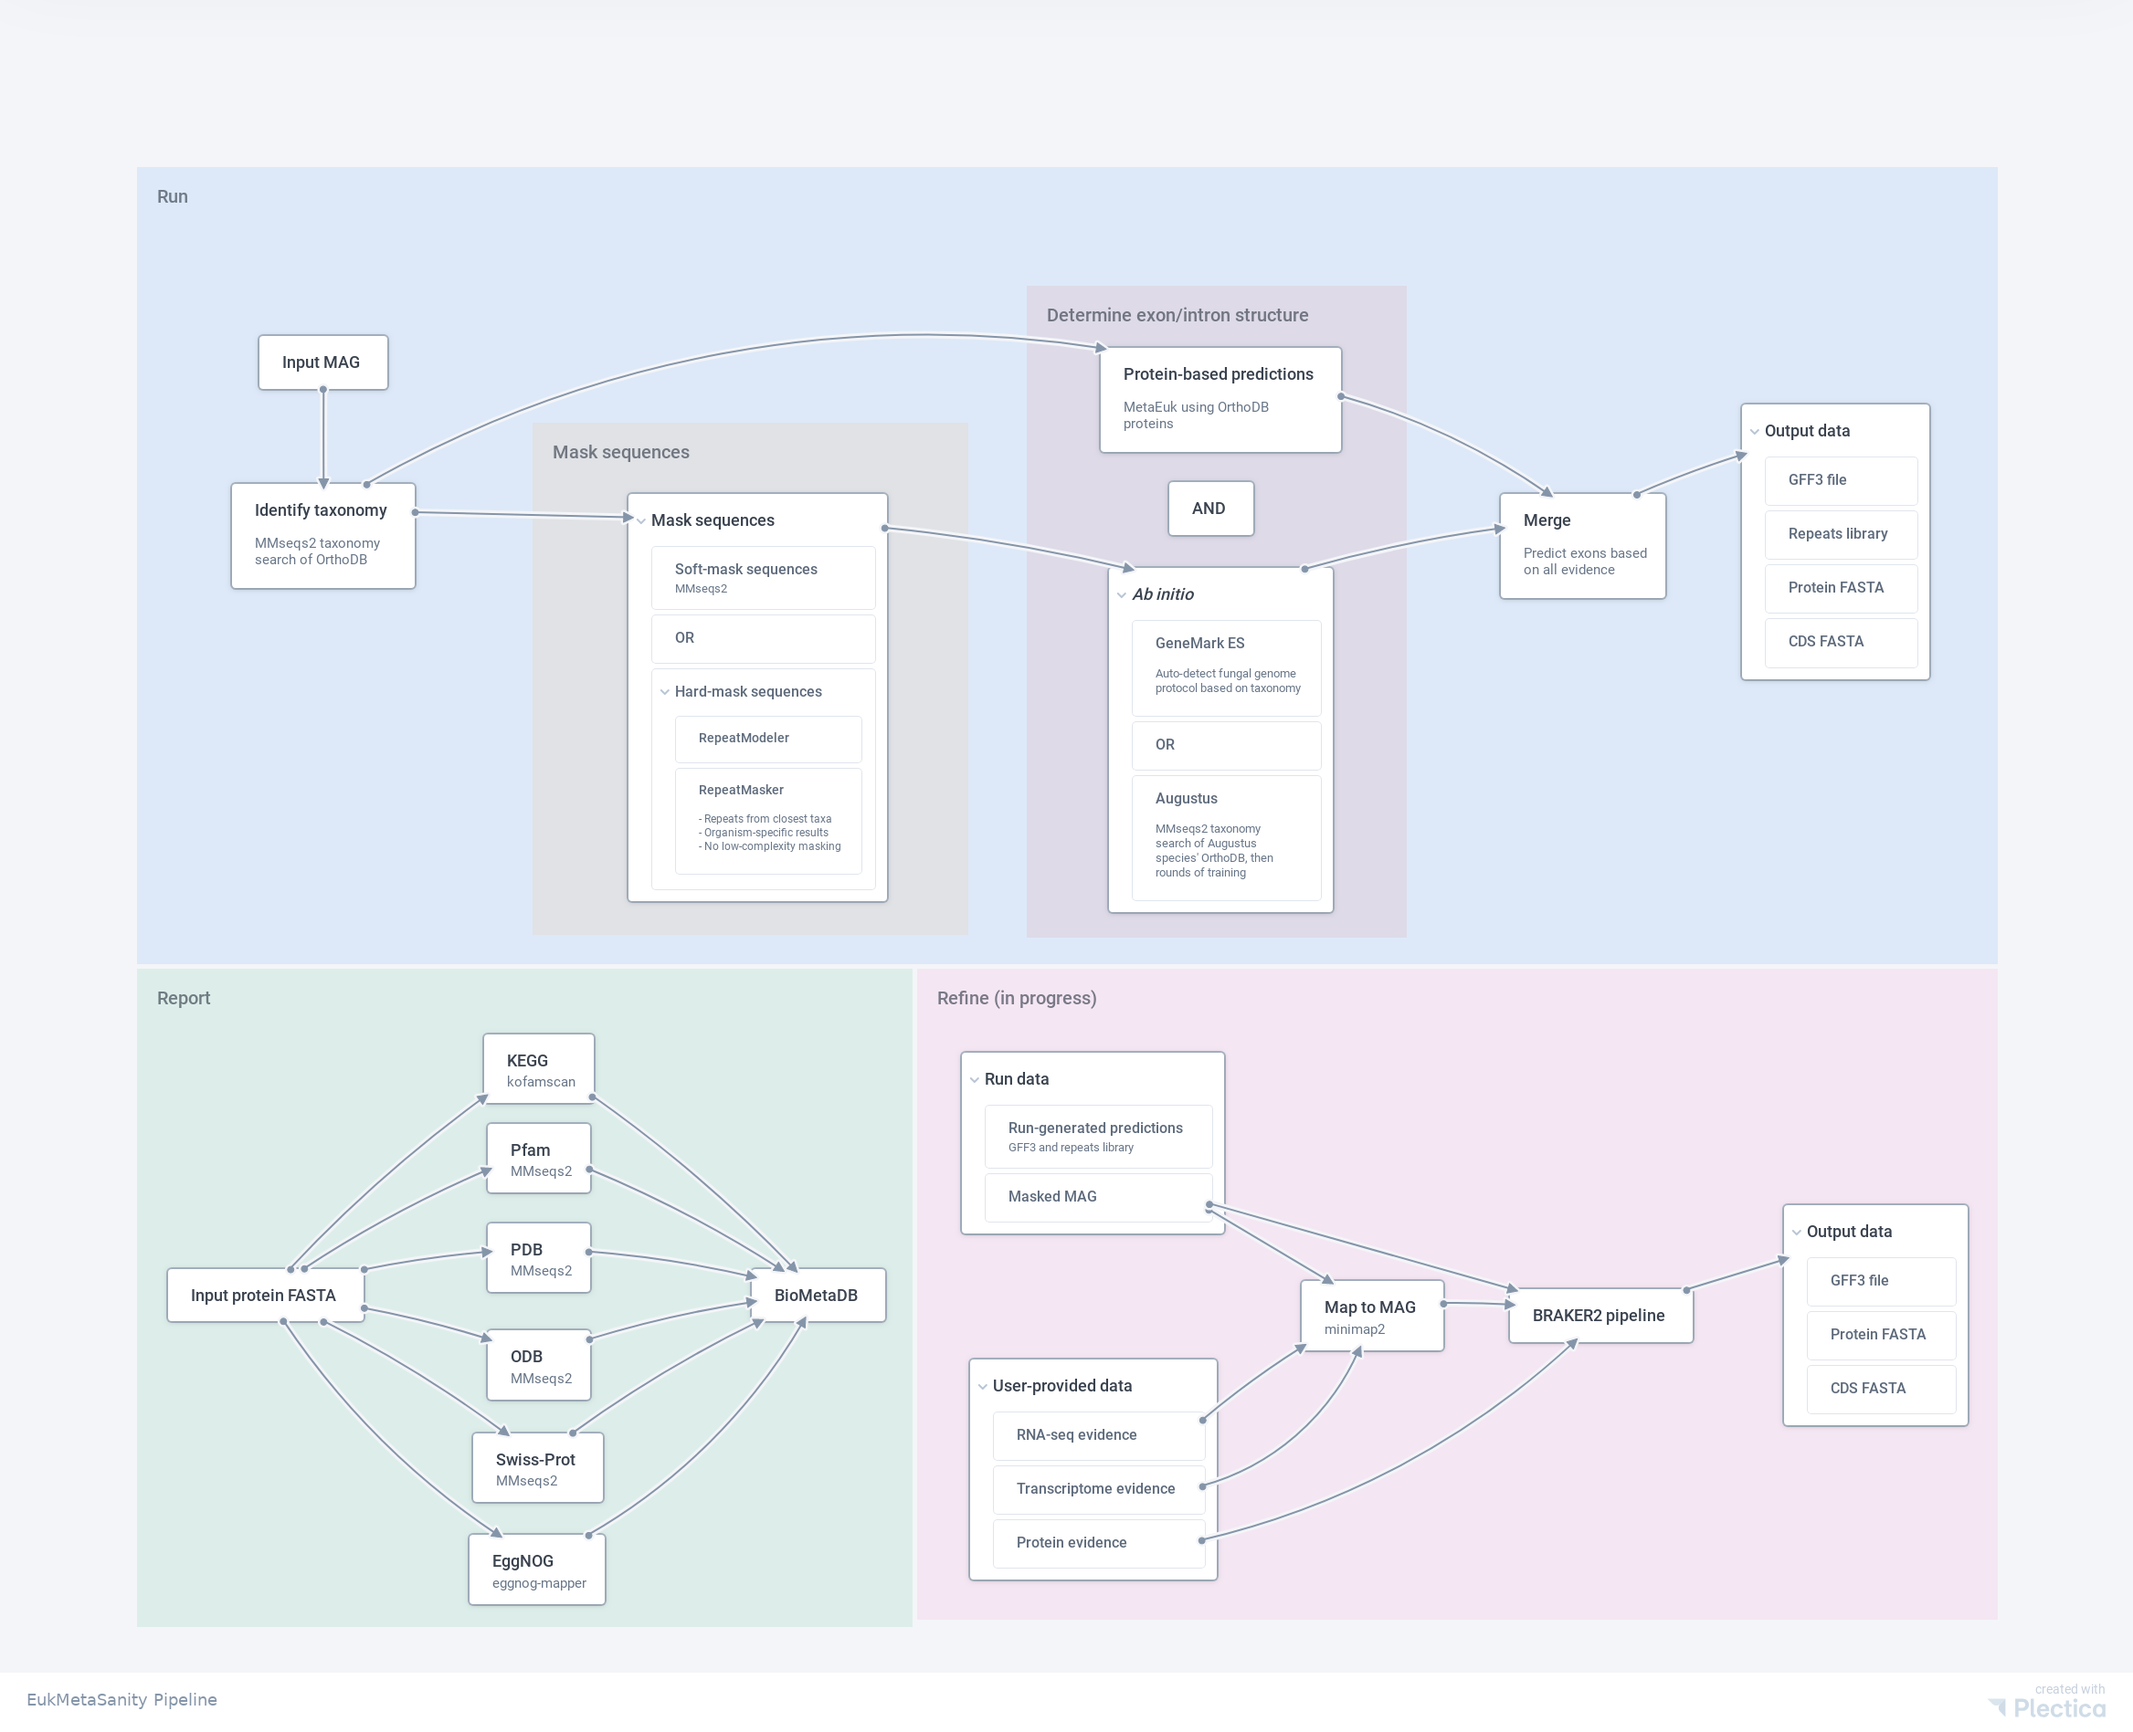
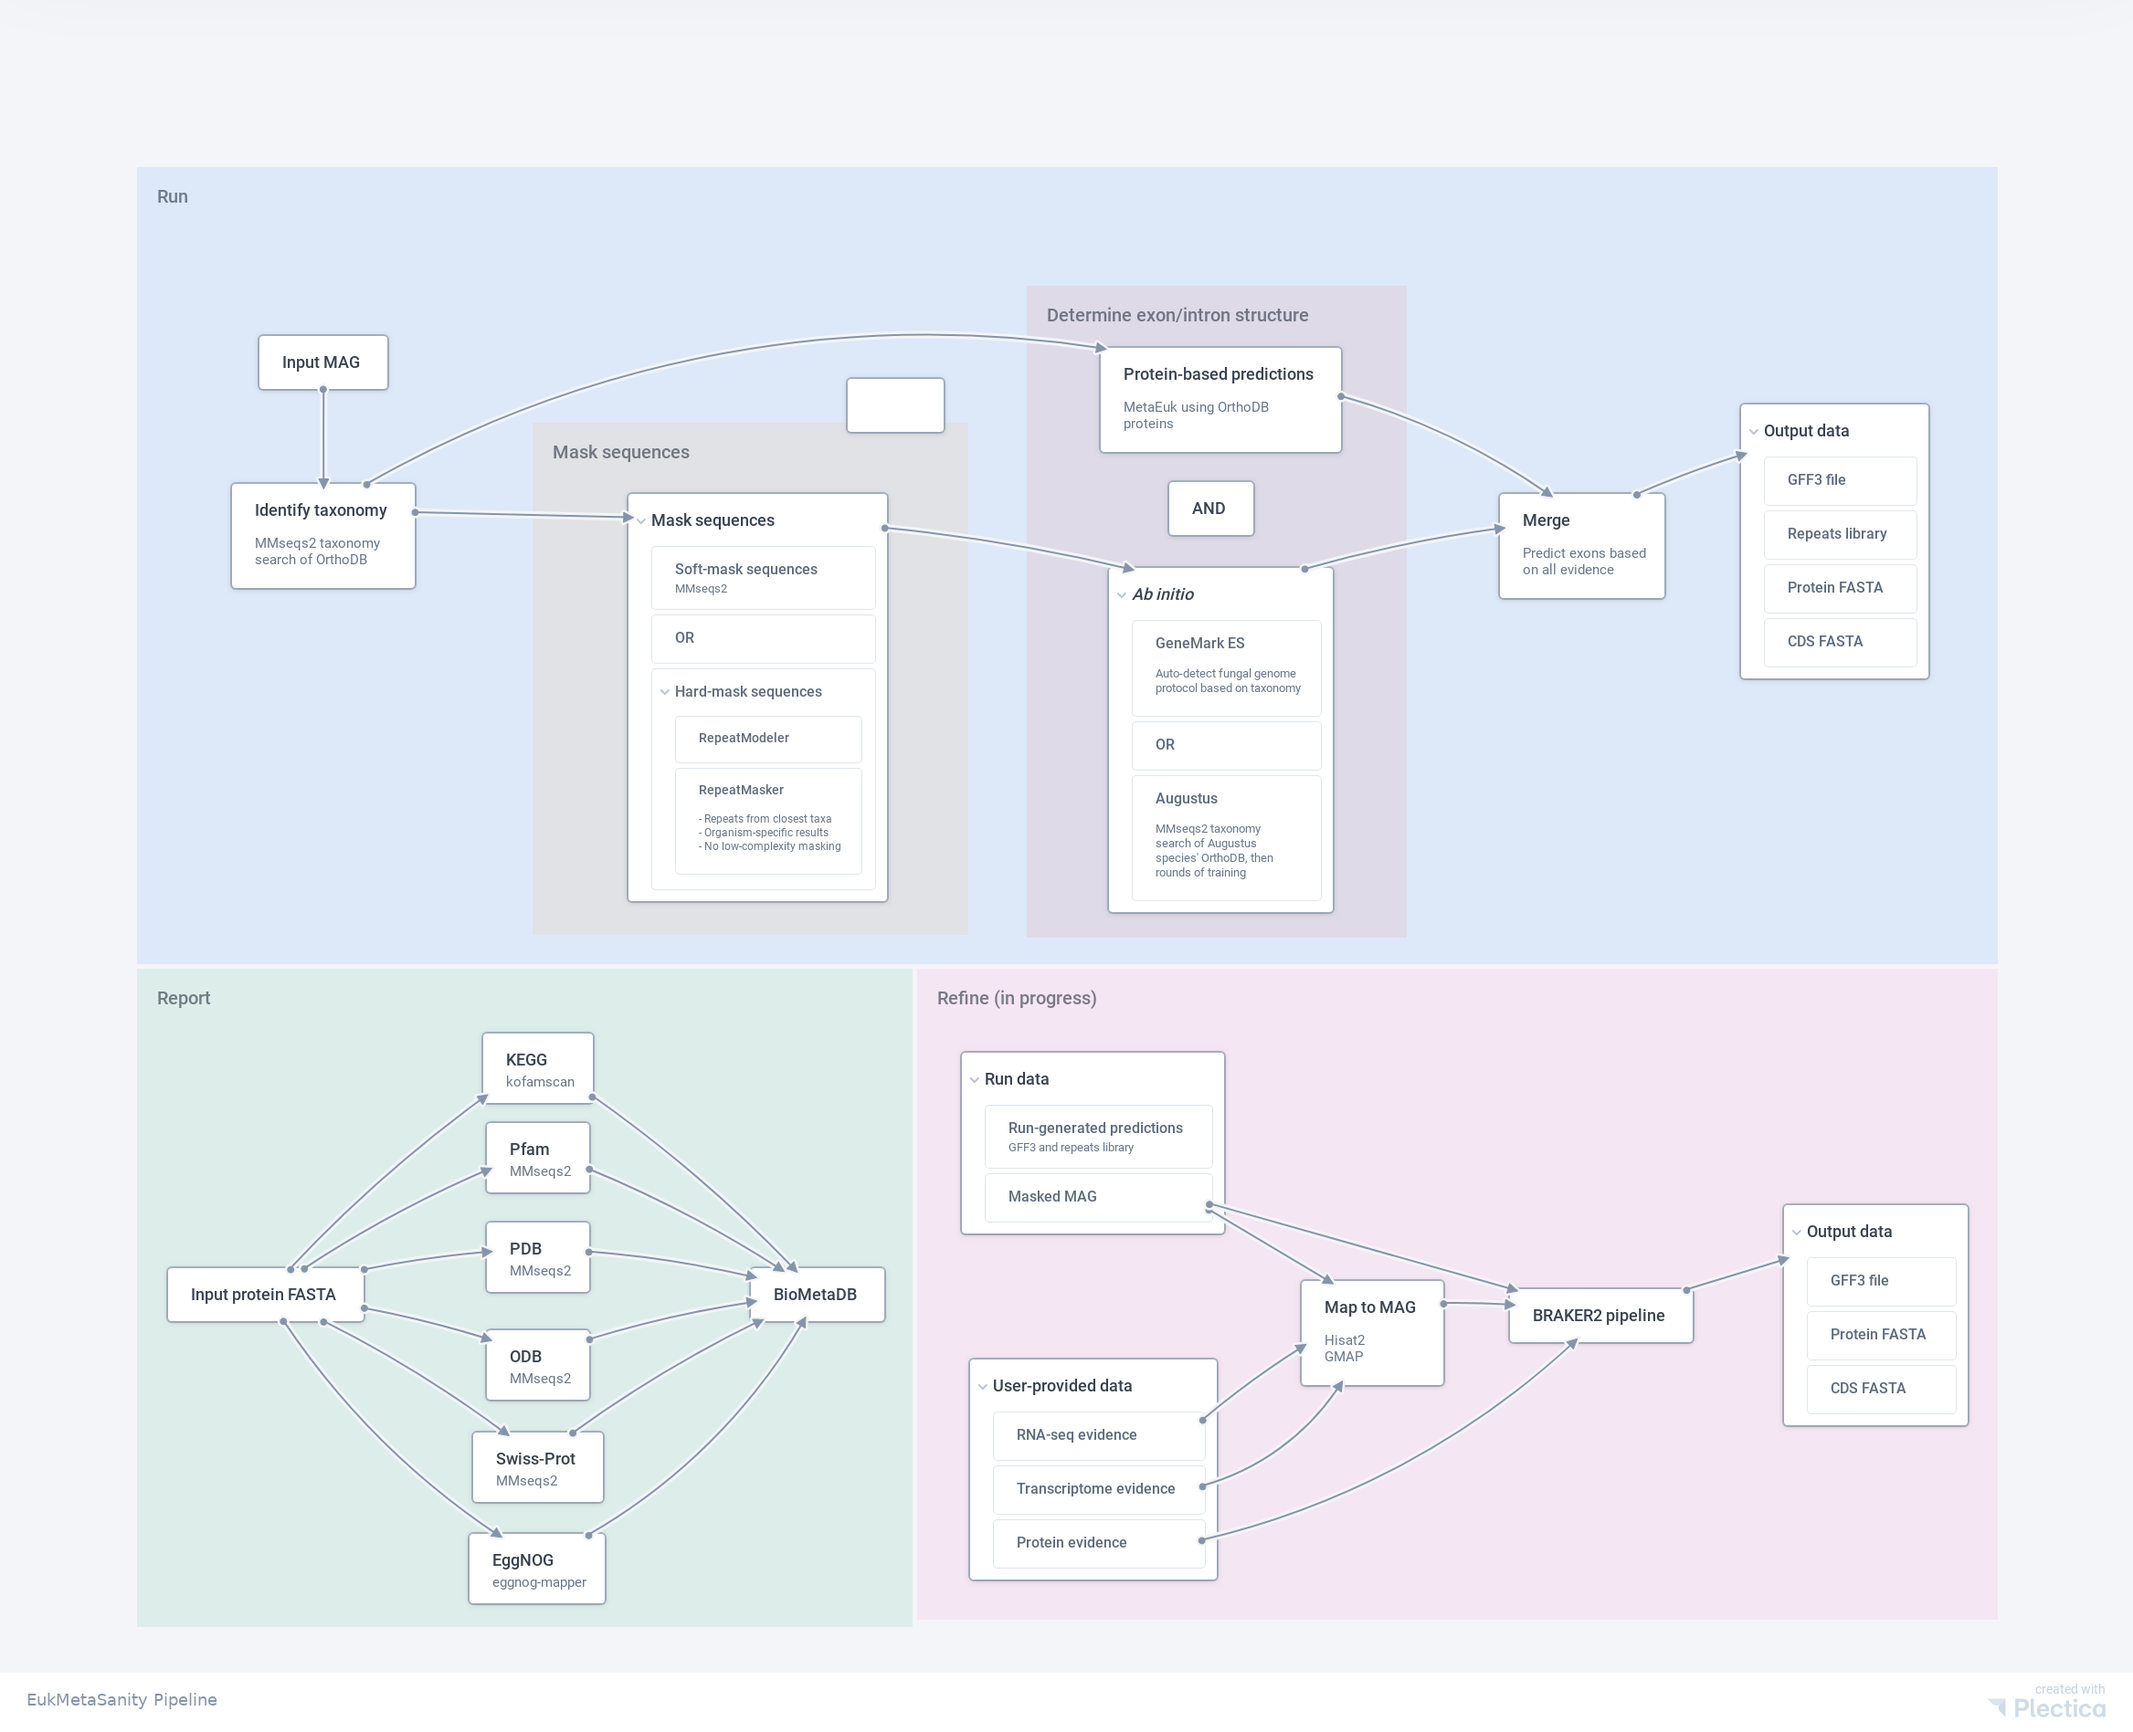
Begin extending tutorial; Make braker use existing genemark hints; update pipeline image

diff --git a/EukMetaSanity/tasks/refine/braker.py b/EukMetaSanity/tasks/refine/braker.py
@@ -51,6 +51,14 @@ class BrakerIter(TaskList):
                         _fasta_output,
                     ]
                 )
+                _added = []
+                if "--skipGeneMark-ES" in self.added_flags:
+                    # Output CDS and prot fasta
+                    _gtf = os.path.join(self.wdir, self.record_id + ".gtf")
+                    self.log_and_run(
+                        self.program_gffread[self.input[3]] > _gtf
+                    )
+                    _added = ["--geneMarkGtf=%s" % _gtf]
                 self.log_and_run(
                     self.program_braker[
                         "--useexisting",
@@ -63,6 +71,7 @@ class BrakerIter(TaskList):
                         "--species=%s" % self.record_id,
                         (*self.added_flags),
                         "--prg=exonerate",
+                        (*_added)
                     ]
                 )
                 # Output CDS and prot fasta

diff --git a/EukMetaSanity/tasks/manager/task_manager.py b/EukMetaSanity/tasks/manager/task_manager.py
@@ -49,7 +49,7 @@ class TaskManager:
         }
         self._input_type = {
             "report": ["prot", "nr_gff3", "fna"],
-            "refine": ["mask", "tax", "fna"],
+            "refine": ["mask", "tax", "fna", "abinitio"],
         }
 
     @property

diff --git a/EXTENDING.md b/EXTENDING.md
@@ -1,0 +1,28 @@
+Users with Python programming experience can easily extend **EukMetaSanity** to include additional pipelines.
+
+Read the following explanation of how EukMS builds its workflow:
+
+## The EukMS workflow
+
+**EukMetaSanity** consists of four primary classes:
+
+```
+Task
+TaskList
+TaskManager
+Data
+```
+
+`Task` provides the exact implementation needed to run a program - the specific command-line arguments needed to run a 
+program.
+
+`TaskList` is a container class that holds and calls all `Task` objects using the user-specified number of threads and 
+workers.
+
+`TaskManager` provides the order of tasks that must be done to complete a pipeline.
+
+`Data` connects the `Task*` class functionality to the config-file with which users will interact with.
+
+### Example:
+
+Let's say we want to create a new pipeline that simply maps FASTQ files to a genome.
